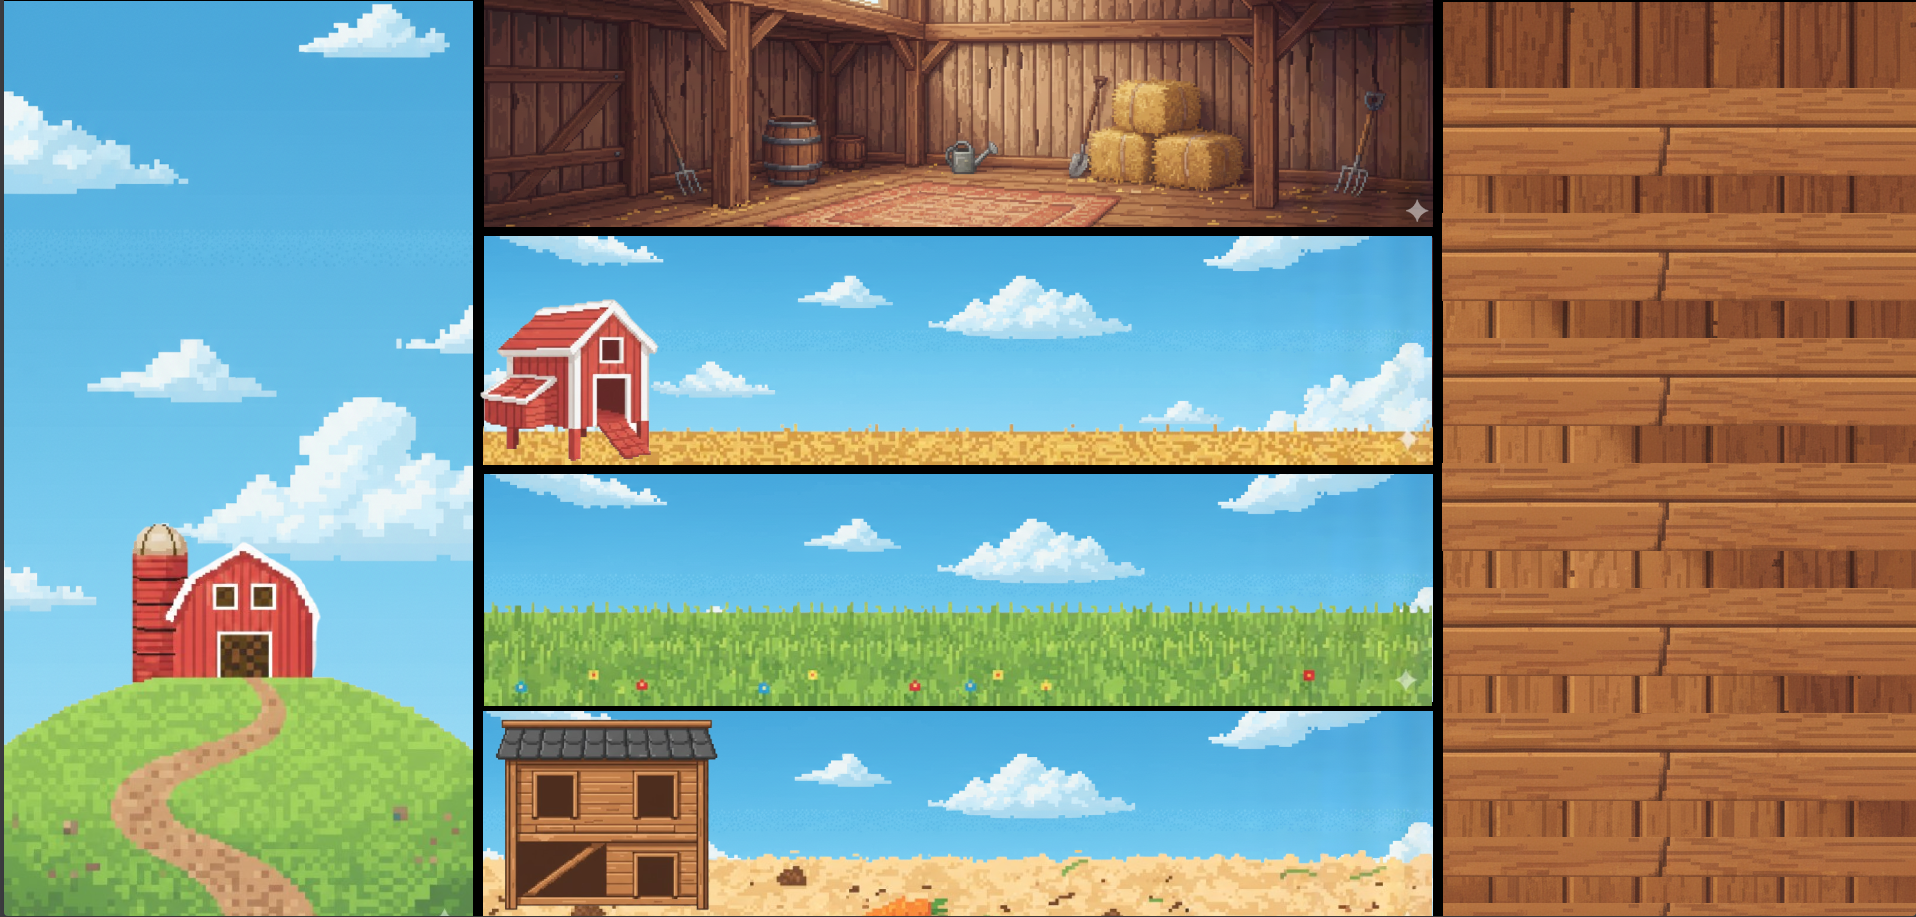
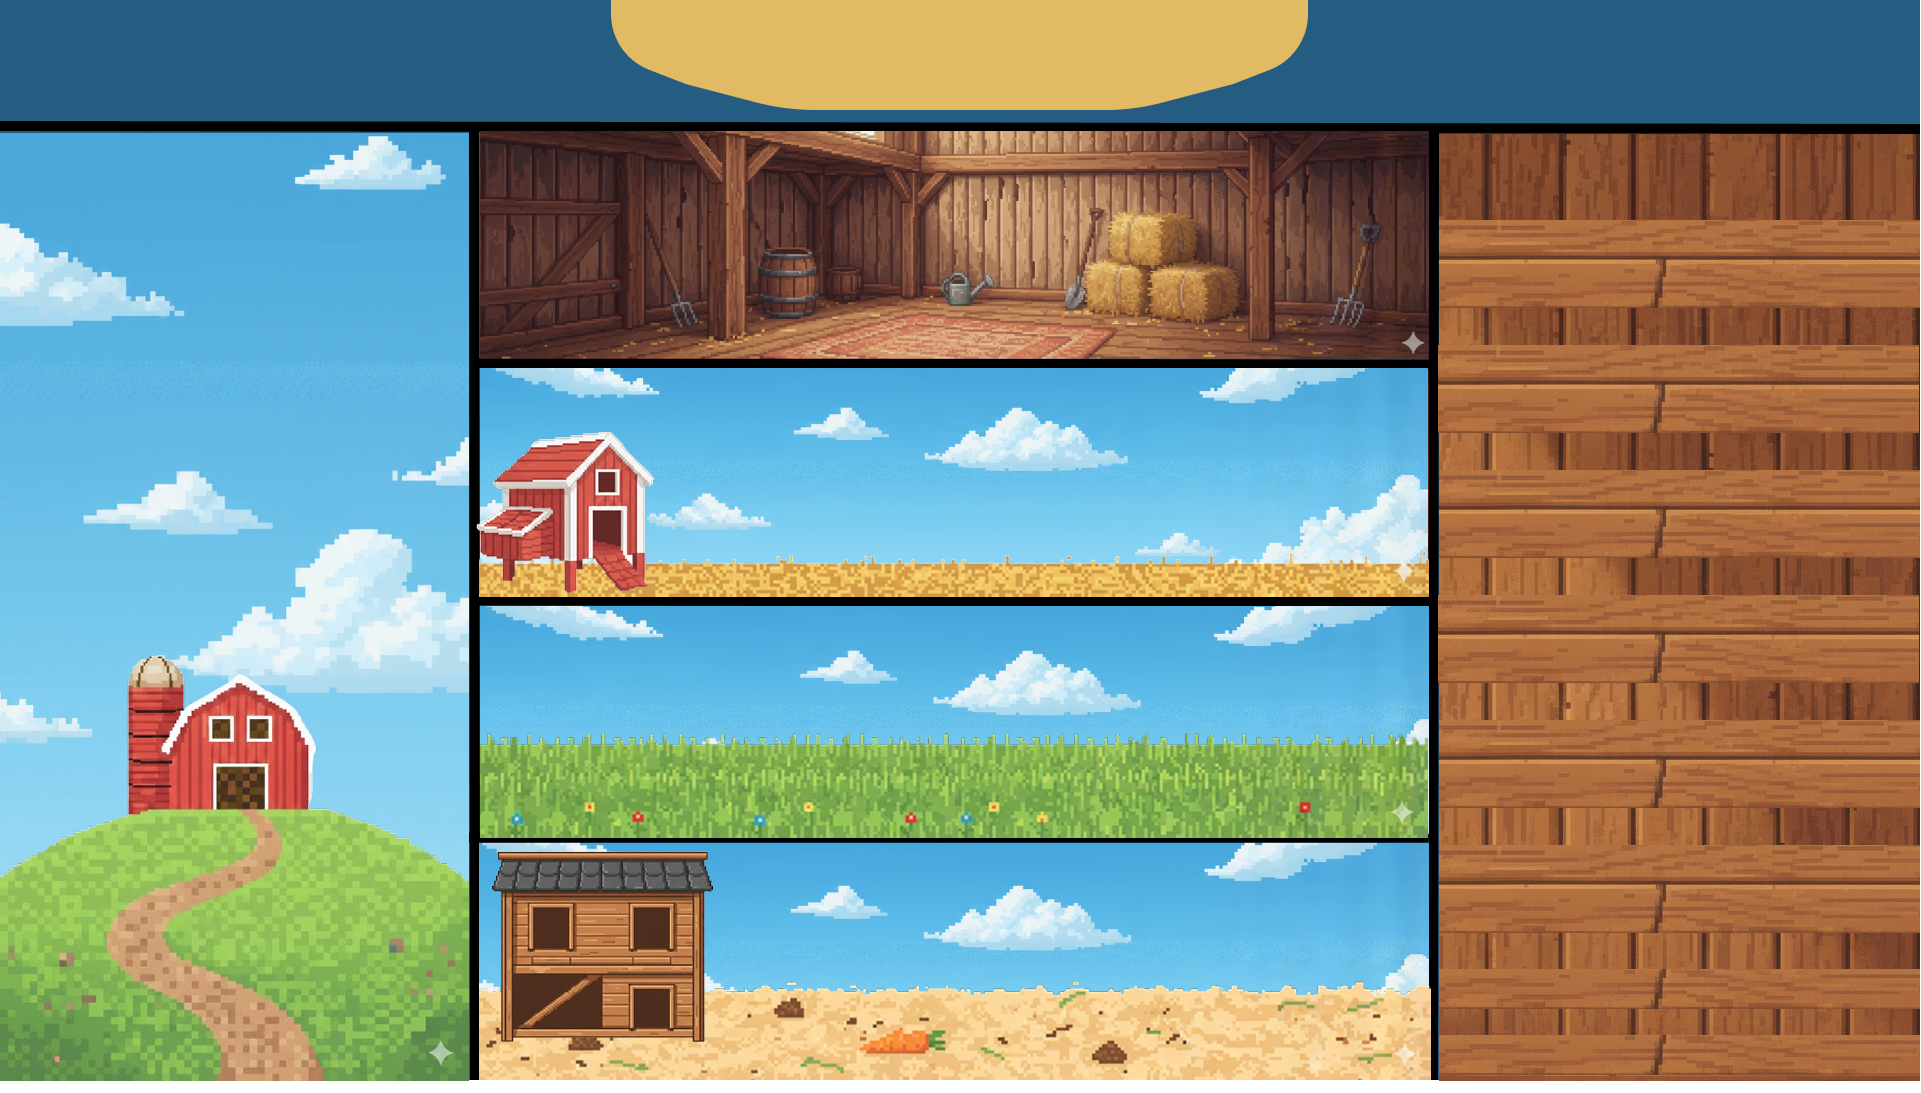
image de ferme deilable pour voir la ferme entier et pouvoir voir la barre bleu au dessus de la ferme

diff --git a/screens/css/style.css b/screens/css/style.css
@@ -5,6 +5,7 @@ body, html {
     color: white;
     overflow-x: hidden;
     padding: 0;
+    background-color: #000; /* fond global noir pour éviter les bandes blanches */
 }
 img {
   max-width: 100%;  /* S'adapte à l'écran */
@@ -190,10 +191,14 @@ img {
 }
 
 
-/* Le fond d'écran de la ferme */
+/* Le fond d'écran de la ferme (affiche l'image entière et permet le défilement) */
 .bg-ferme {
-    position: fixed;
-    inset: 0; /* équivalent top:0 left:0 right:0 bottom:0 */
-    background: url('../assets/Background.png') no-repeat center center;
-    background-size: cover;
+    position: relative;
+    width: 100%;
+    background-color: #000; /* fond noir derrière l'image */
+    /* Ratio image 1921x1093 -> 1093/1921 * 100 = ~56.9% */
+    padding-top: 56.9%; /* réserve un espace proportionnel selon l'image */
+    background: url('../assets/background1.png') no-repeat center top;
+    background-size: contain; /* montre l'image entière sans rognage */
+    background-attachment: scroll; /* permet le défilement avec la page */
 }
